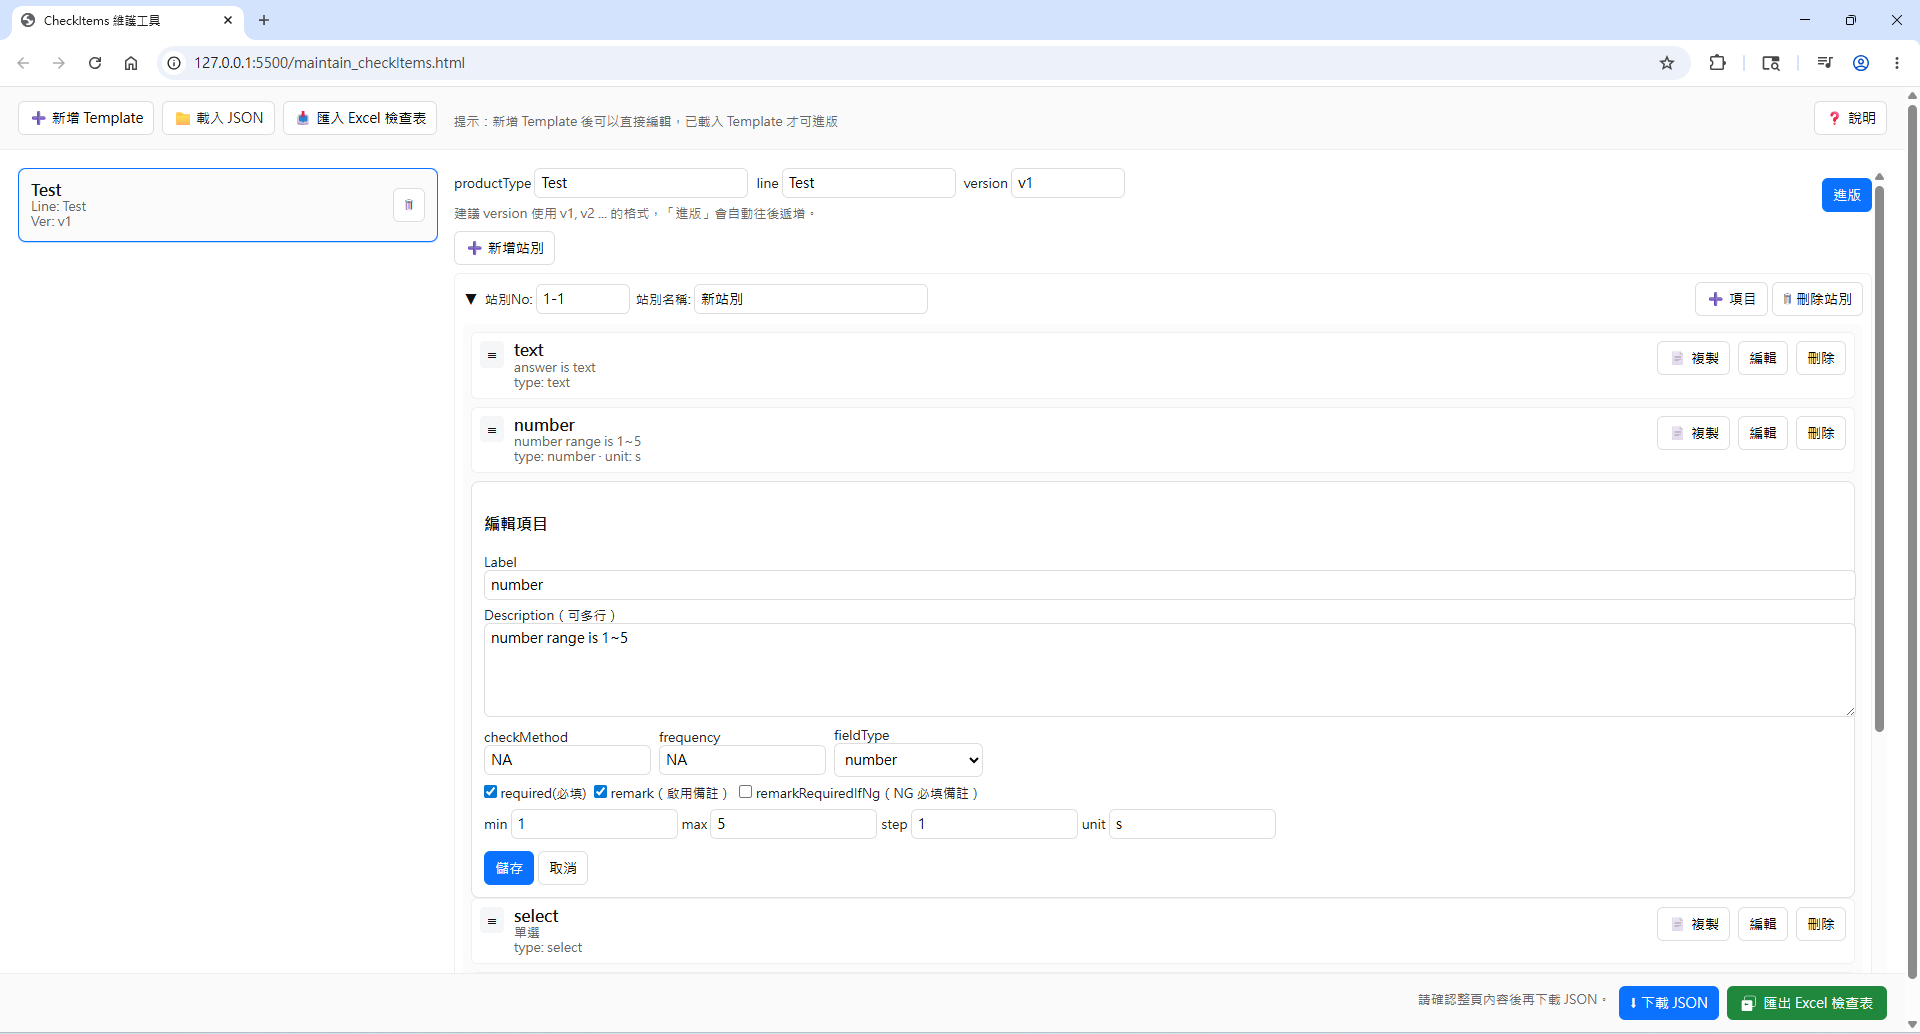
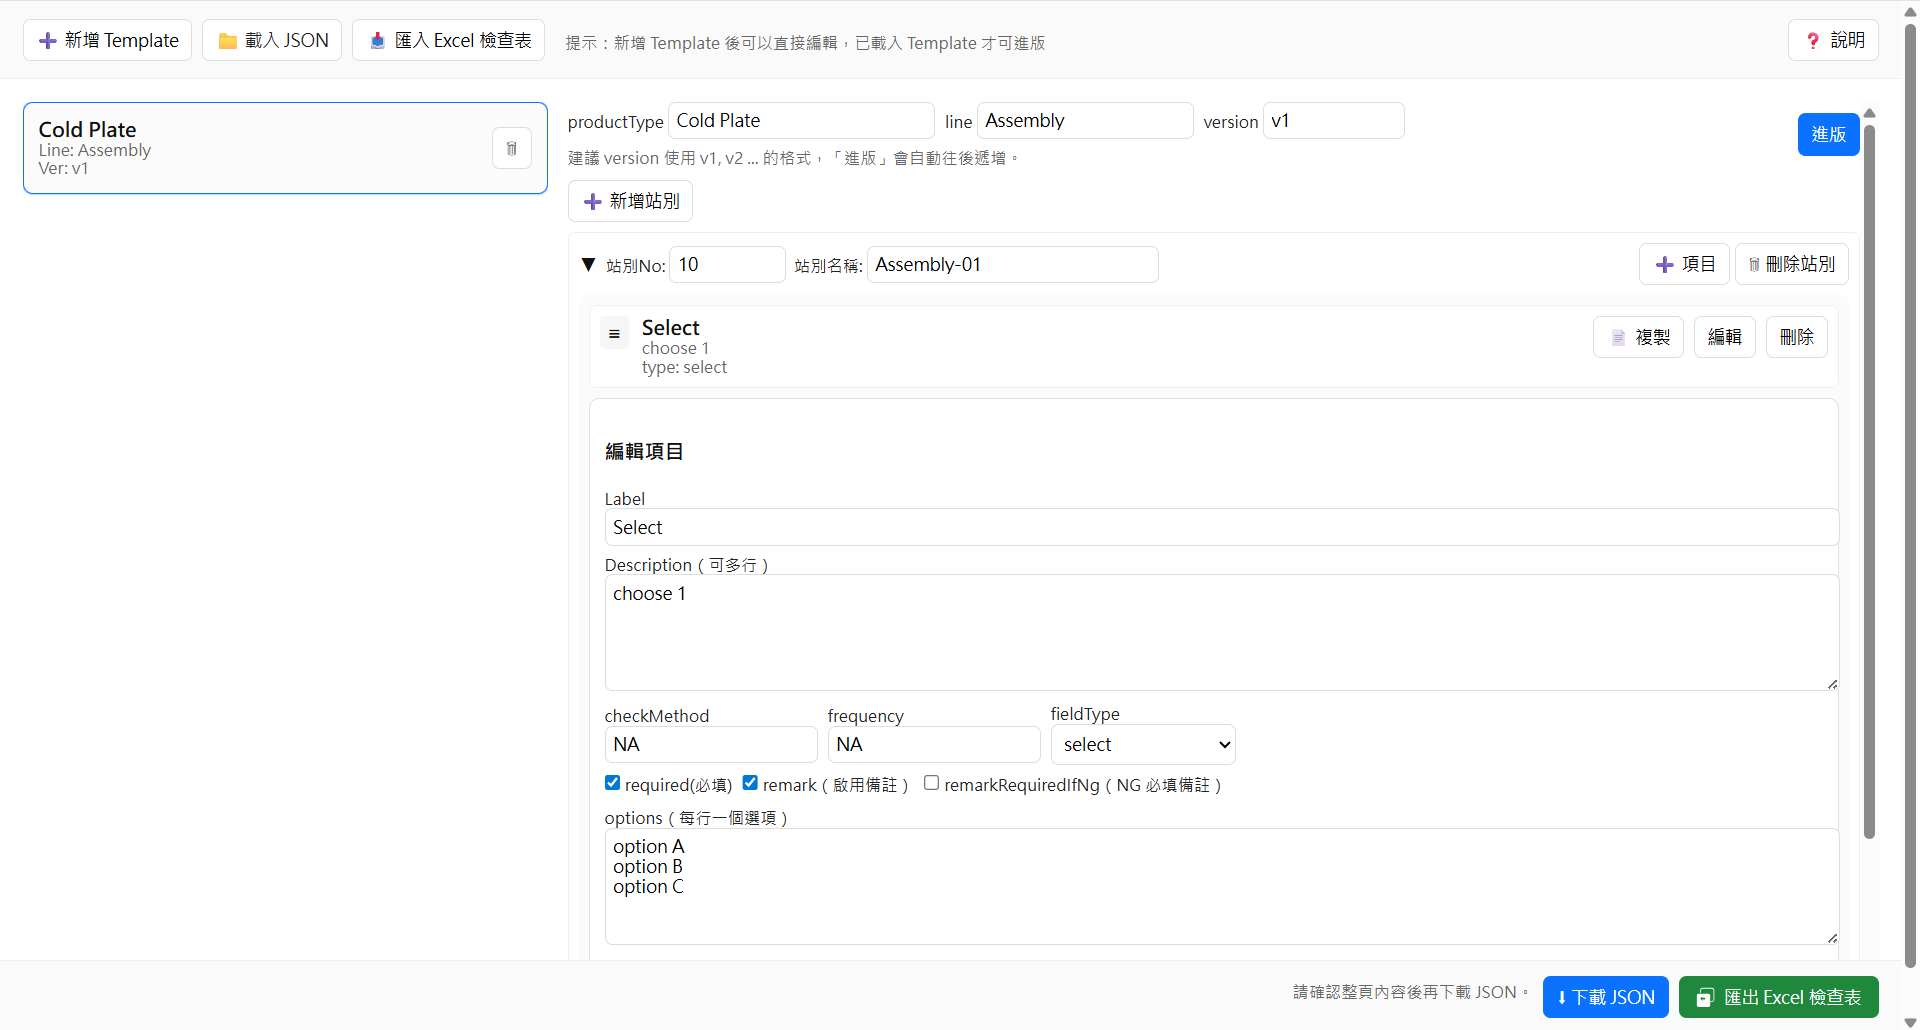
Add DEMO Section

diff --git a/index.html b/index.html
@@ -387,24 +387,64 @@
                     transform: translateY(0);
                 }
             }
-
             
             .demo-grid {
                 display: flex;
-                gap: 20px;
+                gap: 24px;
                 justify-content: center;
                 flex-wrap: wrap;
             }
 
             .demo-item {
-                width: 280px;
+                width: 320px; 
                 text-align: center;
             }
 
-            .demo-item img {
-                width: 100%;
-                border-radius: 8px;
+            .demo-item h3 {
+                margin-bottom: 10px;
+                font-size: 15px;
+                color: var(--text-color);
             }
+
+            .demo-item video { 
+                width: 100%;
+                border-radius: 10px;
+                border: 1px solid rgba(255,255,255,0.08);
+
+                /* ✅ 初始比較像靜態 */
+                filter: brightness(0.85);
+                transform: scale(1);
+
+                transition: all 0.3s ease;
+                cursor: pointer;
+            }
+
+            .demo-item video:hover {
+                filter: brightness(1);
+                transform: scale(1.03);
+            }
+
+            .demo-item video {
+                cursor: pointer;
+            }
+
+
+            .video-modal {
+                position: fixed;
+                inset: 0;
+                background: rgba(0,0,0,0.8);
+                display: flex;
+                align-items: center;
+                justify-content: center;
+                z-index: 9999;
+            }
+
+            .video-modal video {
+                max-width: 80%;
+                max-height: 80%;
+                border-radius: 12px;
+            }
+
 
             
             .theme-toggle {
@@ -727,7 +767,7 @@
         </section>
 
         <!-- 5 DEMO -->
-        <section class="demo">
+        <!-- <section class="demo">
             <h2>System Demonstration</h2>
 
             <div class="demo-grid">
@@ -748,7 +788,33 @@
                 </div>
 
             </div>
+        </section> -->
+        
+        
+        <section class="demo">
+            <h2>System Demonstration</h2>
+
+            <div class="demo-grid">
+
+                <div class="demo-item">
+                    <h3>Inspection</h3>
+                    <video src="inspection.mp4" muted preload="metadata" loop onclick="openVideoModal(this.src)"></video>
+                </div>
+
+                <div class="demo-item">
+                    <h3>Configuration</h3>
+                    <video src="config.mp4" muted preload="metadata" loop onclick="openVideoModal(this.src)"></video>
+                </div>
+
+                <div class="demo-item">
+                    <h3>Abnormal Event Report</h3>
+                    <video src="teams.mp4" muted preload="metadata" loop onclick="openVideoModal(this.src)"></video>
+                </div>
+
+            </div>
         </section>
+
+
 
 
         <!-- 6 WORKFLOW -->
@@ -869,6 +935,36 @@
                 document.getElementById("systemsContainer")
                     .scrollBy({ left: value, behavior: "smooth" });
             }
+
+            
+            function openVideoModal(src) {
+                const modal = document.createElement("div");
+                modal.className = "video-modal";
+                modal.innerHTML = `
+                    <div class="video-modal-content">
+                        <video src="${src}" controls autoplay></video>
+                    </div>
+                `;
+                modal.onclick = () => document.body.removeChild(modal);
+                document.body.appendChild(modal);
+            }
+
+                        
+            document.querySelectorAll('.demo-item video').forEach(video => {
+
+                video.addEventListener('mouseenter', () => {
+                    video.currentTime = 0;
+                    video.play();
+                });
+
+                video.addEventListener('mouseleave', () => {
+                    video.pause();
+                    video.currentTime = 0;
+                });
+
+            });
+
+
         </script>
 
     </body>